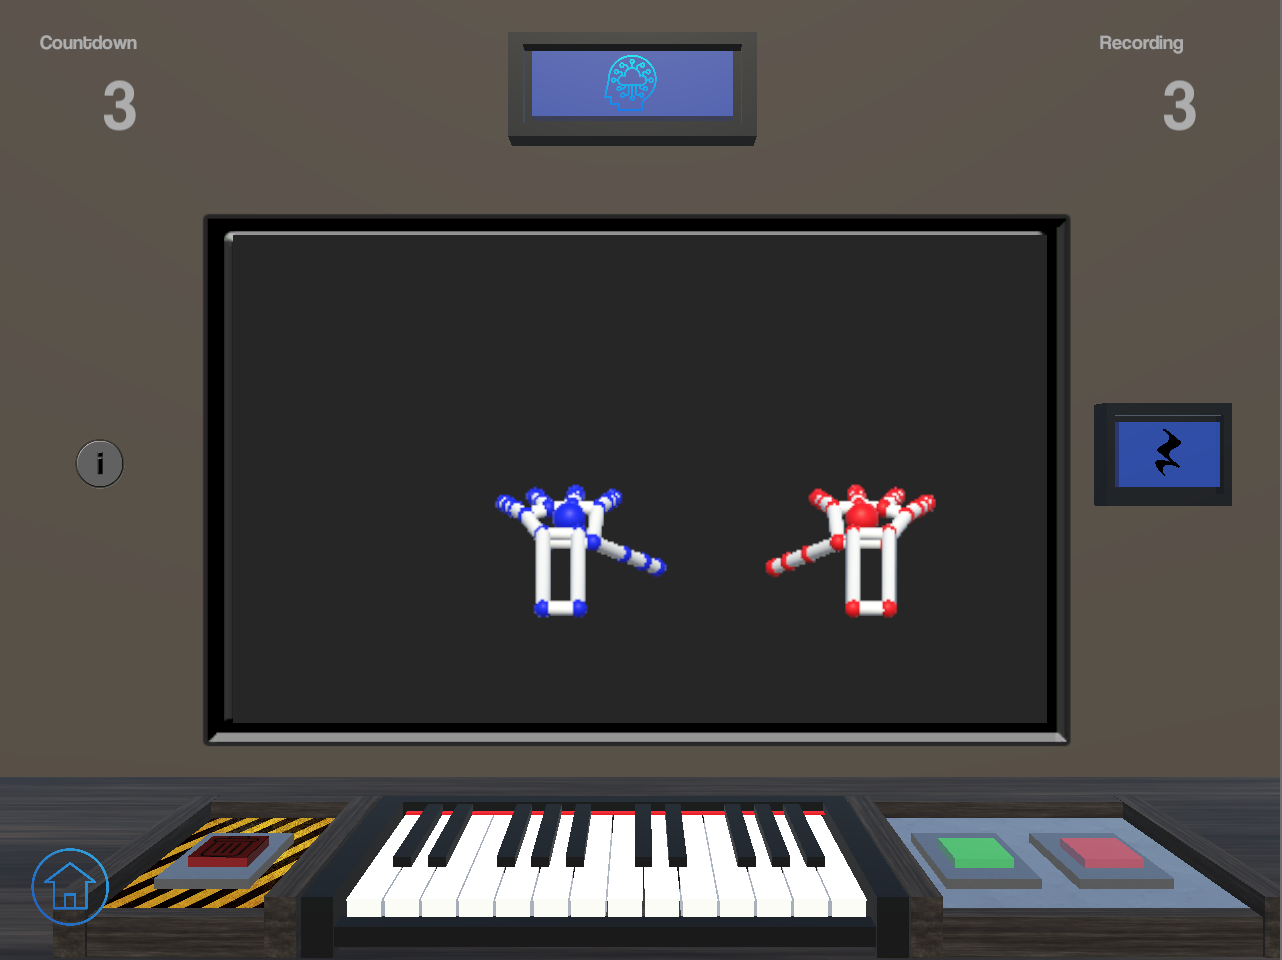
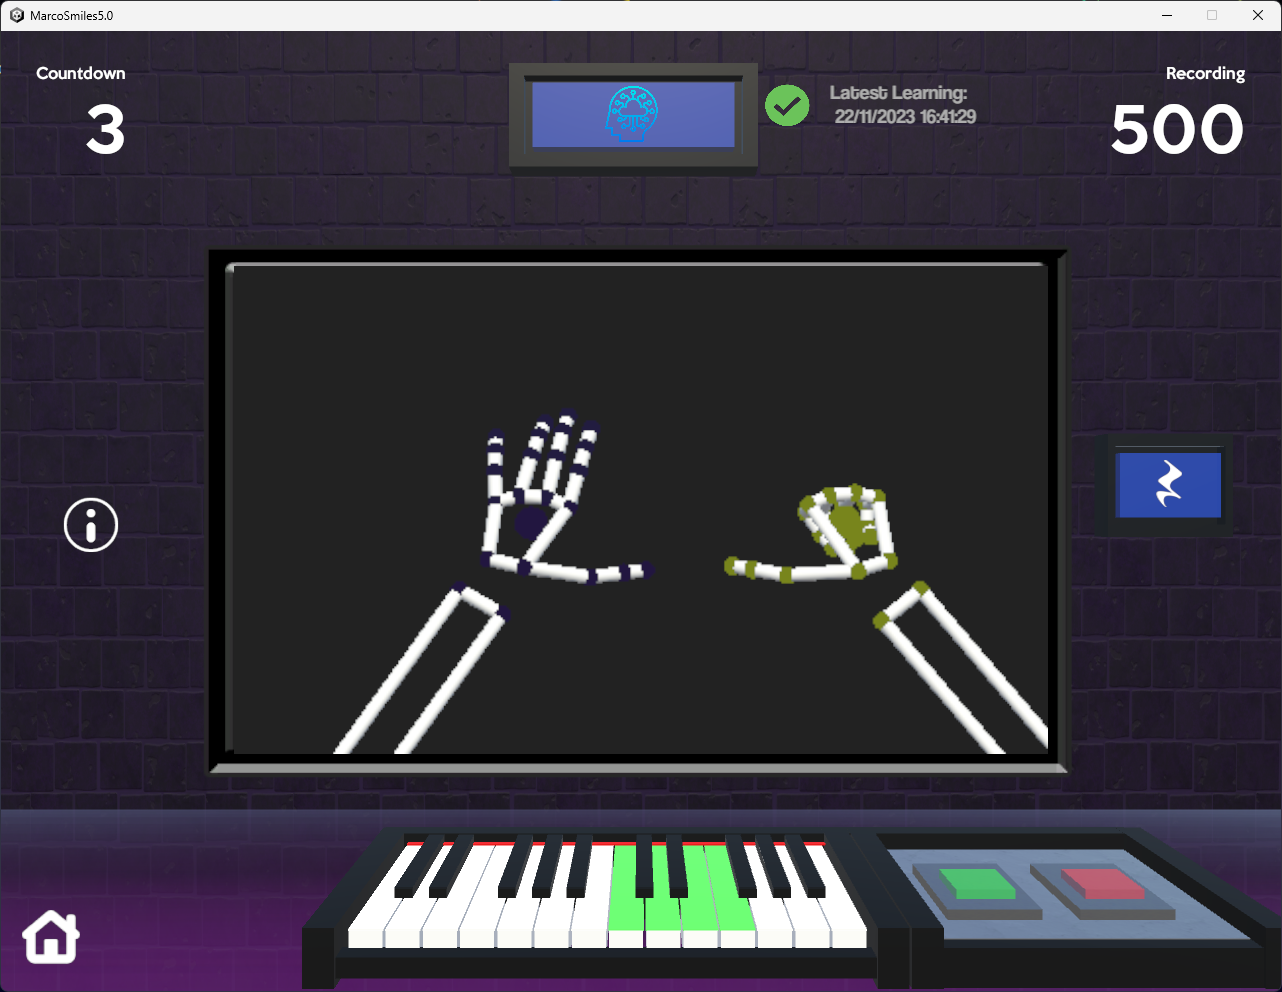
nuova gui

diff --git a/README.md b/README.md
@@ -16,11 +16,18 @@ MarcoSmiles 5.0 is a desktop application with a graphical user interface. Make s
 <p align="center"><img src="readme_images/main_scene.png"/></p>
 The Main Scene is the home page of the system. At the top is the logo of MarcoSmiles and below it the various buttons that allow you to navigate the different screens of the system. It will not be possible to access the Play Scene (Play Scene) without having previously trained the system.
 
-At the bottom there is a section that provides access to functions related to the system configurations, which, through buttons, allows you to change, import and export configurations previously made by the user:
+at the top right there is a button that allows access to the dataset management scene.
+
+### Dataset scene
+<p align="center"><img src="readme_images/dataset_scene.png"/></p>
+
+The Dataset scene deals with the management of datasets and is presented through a scrollmenu that contains clickable cards. Each card is associated with a dataset present in the application and contains all the information relating to the dataset and its configurations. Furthermore, there are two buttons on each card that allow you to modify and delete its contents. By clicking on the card, you can select the dataset.
+
+The scene also includes three other buttons: one at the top right for adding a new dataset, and two buttons at the bottom that deal with importing and exporting datasets.
+
 - To export a dataset you need to press "_export dataset_" button. At this point select the desired dataset and save it. Then you can use it into MarcoSmiles5.0 or into MarcoSmiles Portable;
   - To import the configuration in MarcoSmiles portable you need to copy and paste the exported dataset you want to use. This must be done before using MarcoSmiles Portable so that the dataset can be processed by the system;
 - To import the configuration in MarcoSmiles5.0 select "_import dataset_" button. Choose the dataset you wish to import and confirm. (_You can check the dataset you are using on the main page_).
-
 
 ### Training Scene
 <p align="center"><img src="readme_images/training_scene.png"/></p>
